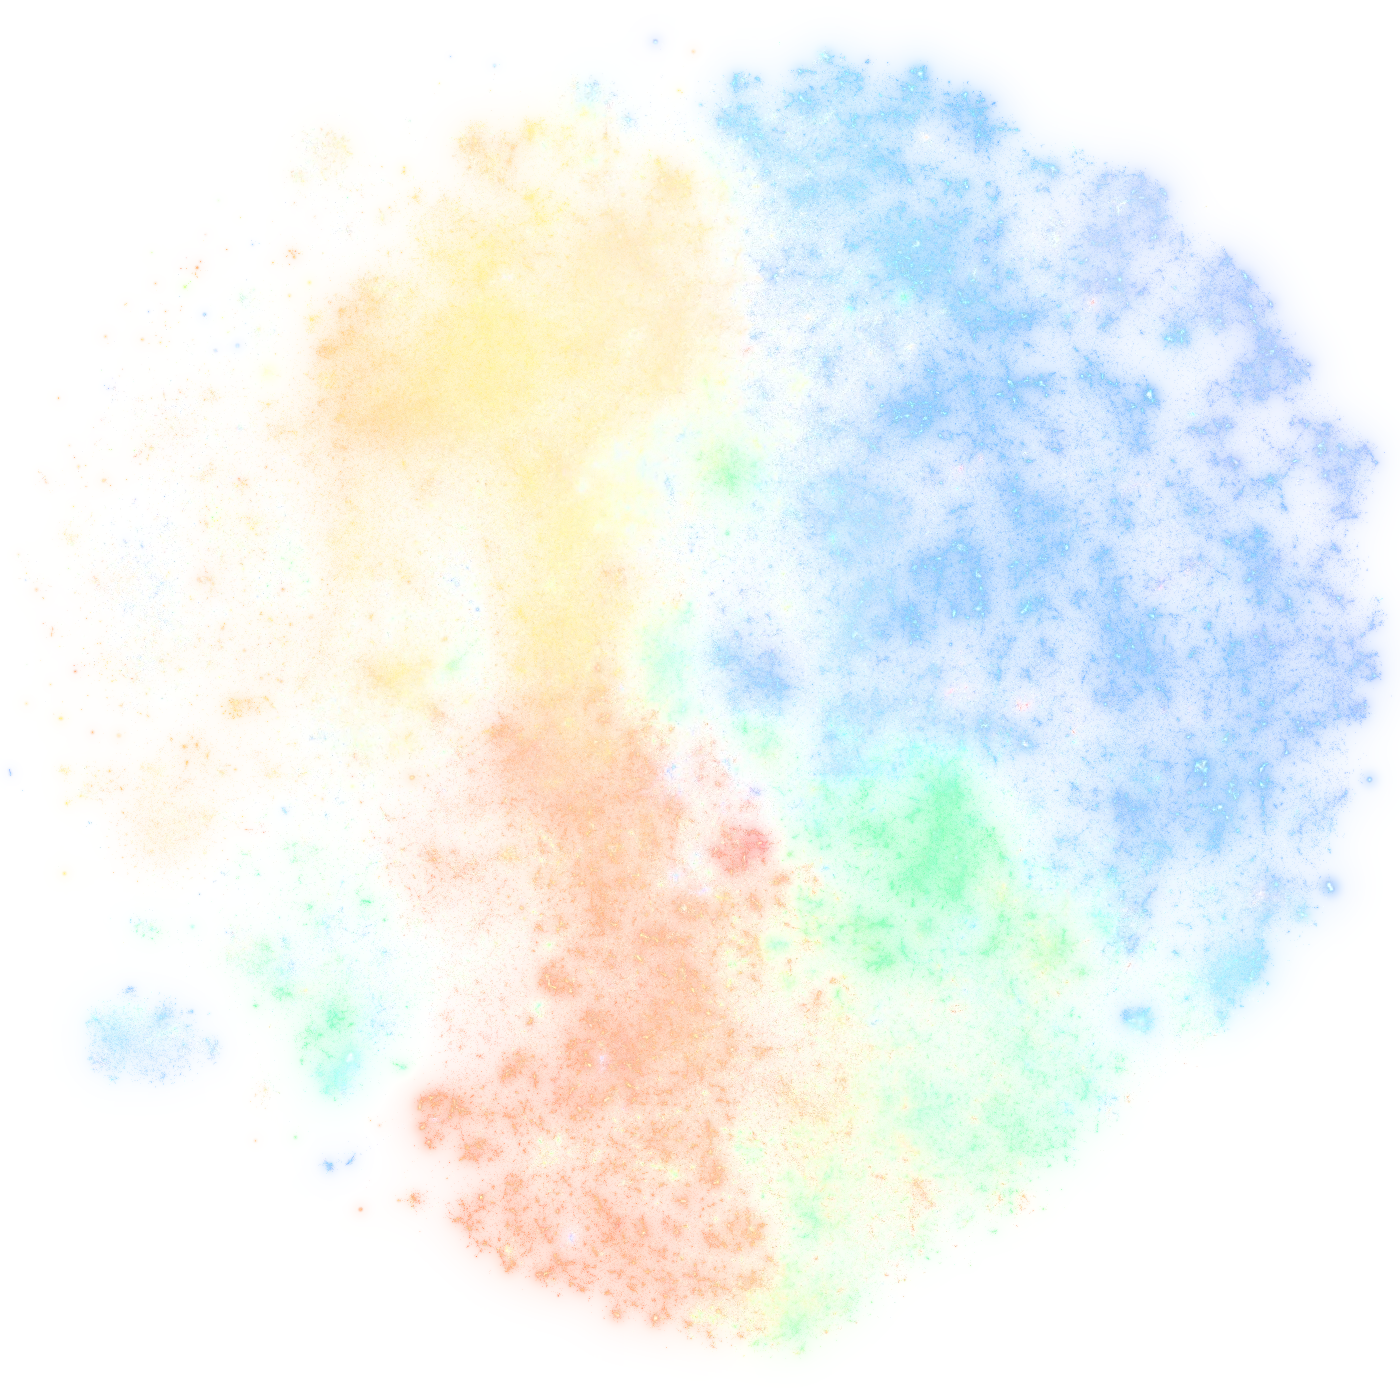
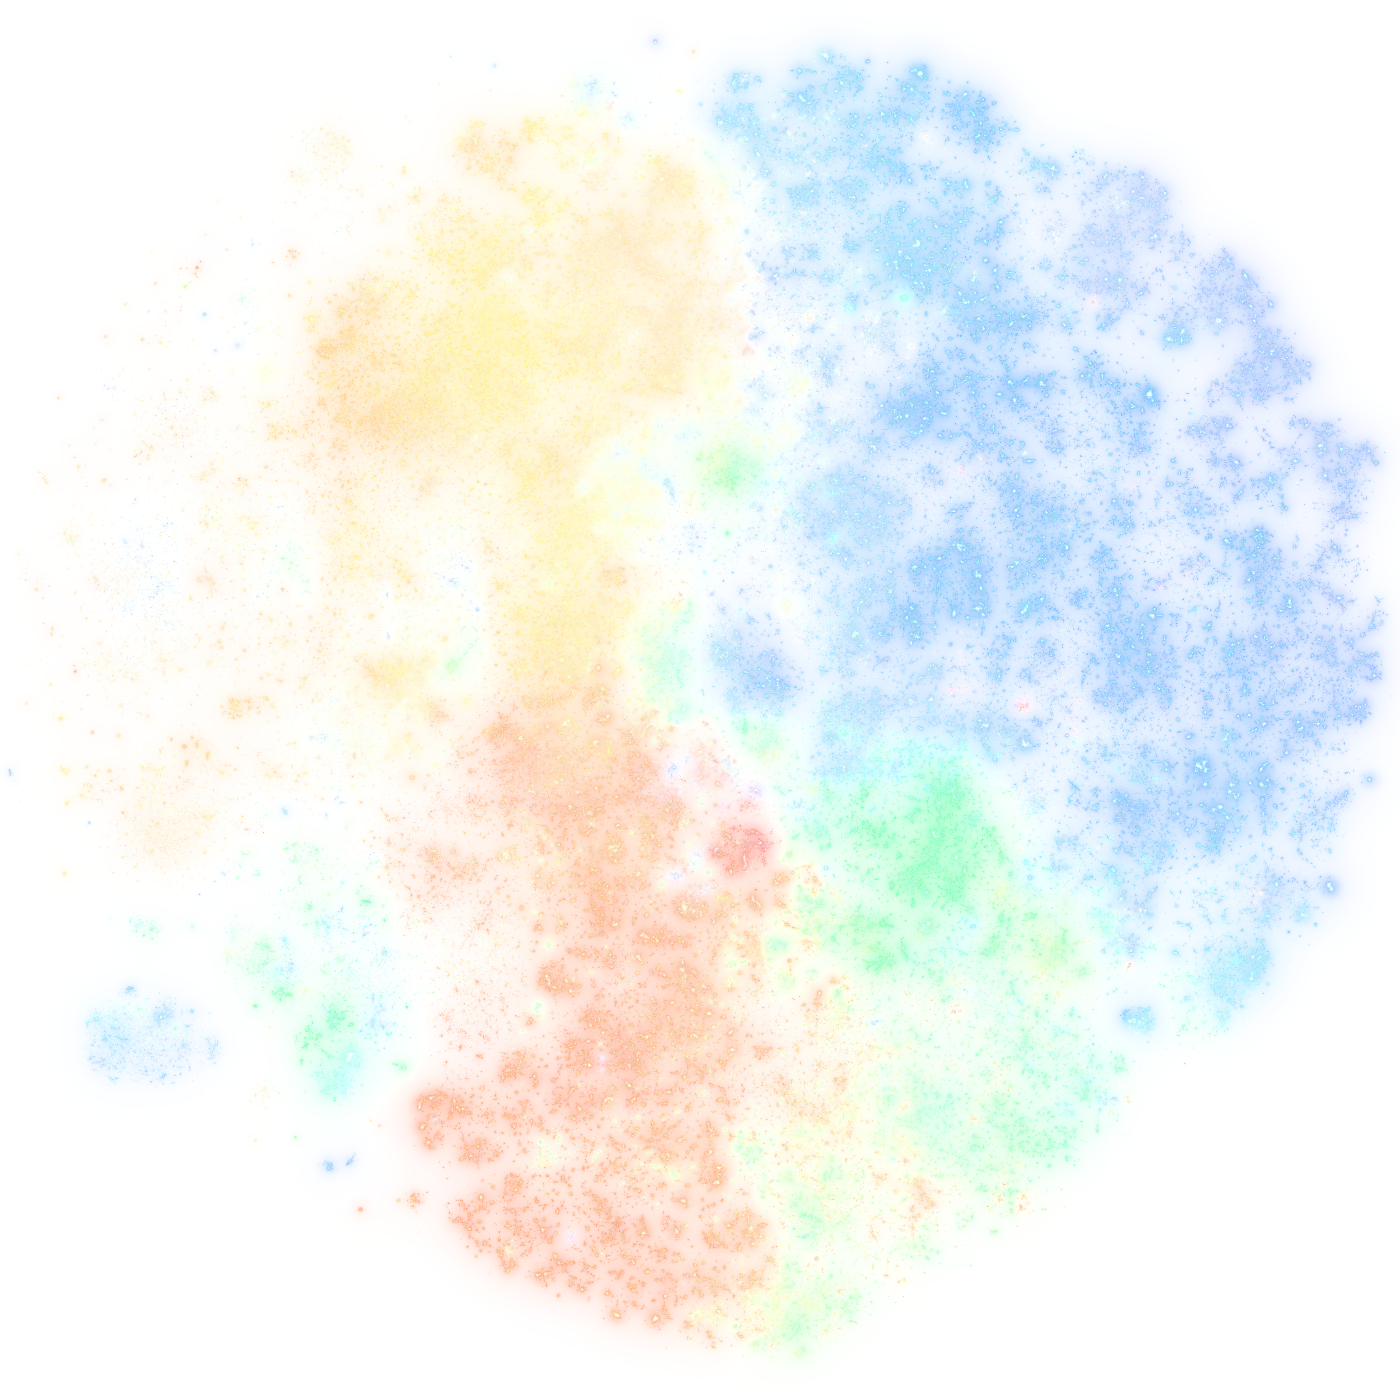
Map for the 'mode' positions (release 20261010T012946Z): homepage images redrawn (exposure percentile 96.5 keeps the brightness), density stored /64 in half floats (100,000+ studies per pixel overflowed to Inf: a black square), soft knee above the 99.7th percentile, stars blended by MAX (dense clust

diff --git a/app/web/src/mapgl.ts b/app/web/src/mapgl.ts
@@ -82,7 +82,9 @@ void main() {
   float pur = texelFetch(u_pur, p, 0).r;
   // as make_map.py: one colour per field, paler where fields mix; only-unclassified places muted (x 0.3)
   vec3 col = f.a > 0.5 ? mix(u_grey, f.rgb, 0.35 + 0.65 * pur) : u_grey * 0.3;
-  o = u_lin > 0.5 ? vec4(col * n, n)                       // float: light adds up under filtering
+  // float: light adds up under filtering; stored / 64 so the densest pixels (100,000+ studies with the "mode"
+  // placement) stay inside half-float range (65,504) instead of overflowing to Inf, which the blur turned into a black square
+  o = u_lin > 0.5 ? vec4(col * n, n) / 64.0
                   : vec4(col, log2(1.0 + n) / 16.0);       // 8-bit fallback: colour and log studies
 }`;
 
@@ -104,13 +106,19 @@ uniform float u_w;         // weight (cross-fade between a tile and its parent)
 uniform float u_cubic;     // 1 when a texel is several pixels wide
 uniform float u_scale;     // light buffer scale (8-bit fallback)
 uniform float u_lin;       // baked as linear light (float) or colour + log studies (8-bit)
+uniform float u_knee;      // exposure level of the 99.7th percentile: brighter than this is compressed
 out vec4 o;
 ${CUBIC}
 void main() {
   vec4 t = u_cubic > 0.5 ? cubic(u_t, v_uv, vec2(258.0)) : texture(u_t, v_uv);
-  vec3 light = u_lin > 0.5 ? t.rgb : t.rgb * (exp2(t.a * 16.0) - 1.0);
-  if (max(light.r, max(light.g, light.b)) <= 1e-6) discard;
-  o = vec4(light / u_area * u_k * u_w * u_scale, 1.0);
+  float n = u_lin > 0.5 ? t.a * 64.0 : exp2(t.a * 16.0) - 1.0;      // studies in the texel
+  if (n <= 1e-6) discard;
+  vec3 col = u_lin > 0.5 ? t.rgb / t.a : t.rgb;
+  // light: linear up to the 99.7th percentile of the screen (calibrated against the homepage image), square root
+  // beyond, so the densest clusters glow instead of burning a white halo through the blur
+  float x = n / u_area * u_k;
+  float y = x <= u_knee ? x : u_knee * sqrt(x / u_knee);
+  o = vec4(col * y * u_w * u_scale, 1.0);
 }`;
 
 // ------------------------------------------------------------------ 1. light: stars
@@ -632,6 +640,7 @@ export class MapGL {
     const hazeW = Math.max(0.5, Math.min(1, 1 - (Math.log2(c.z) - 5) / 3));
     gl.uniform1f(P.u.u_k, this.k * hazeW); gl.uniform1f(P.u.u_scale, sc);
     gl.uniform1i(P.u.u_t, 0); gl.uniform1f(P.u.u_lin, this.hdr ? 1 : 0);
+    gl.uniform1f(P.u.u_knee, this.kneeLevel());
     for (const d of draws) {
       if (d.w <= 0 || !this.dbg.haze) continue;
       const texelPx = spanDev / ((1 << d.t.z) * TILE);
@@ -651,6 +660,9 @@ export class MapGL {
     this.pLevel = Lp;
     this.wantP.clear();
     this.into(stars); if (!merged) gl.clear(gl.COLOR_BUFFER_BIT);
+    // overlapping stars keep the brightest instead of adding up: a cluster of thousands of studies is a bright
+    // patch, not a white-hot blob (and in the light theme, not a black stain of ink)
+    gl.blendEquation(gl.MAX);
     const S = this.progs.stars;
     gl.useProgram(S.p);
     gl.uniform2f(S.u.u_view, Wr, Hr);
@@ -698,6 +710,7 @@ export class MapGL {
 
     this.mark("stars");
     // ------------------------------------------------------------- 2. glow: down chain, blur at two sizes
+    gl.blendEquation(gl.FUNC_ADD);
     gl.disable(gl.BLEND);
     gl.bindVertexArray(this.quad);
     const D = this.progs.down;
@@ -777,15 +790,18 @@ export class MapGL {
     const ref = (Math.pow(2, ((i << 4) + 8) / this.meta.density.log_scale) - 1) / area;
     // EXPOSURE: matched to the homepage image at the whole-map view (measured on 1x and 2x screens), so the
     // swap from the image to the live map is not a jump; light needs more, low-density screens a little less
-    const e = this.EXPOSURE ?? (this.pal.dark ? 0.5 : 0.7) * Math.pow(dpr / 2, 0.45);
+    const e = this.kneeLevel();
     // capped: where studies are few, a lone study stays a faint glow (its star carries it), not a bright patch
     return Math.min(e / ref, 60);
   }
   EXPOSURE: number | null = null;
+  /** the light the 99.7th percentile gets (exposure() sets k so that ref x k = this); matched to the homepage images
+   *  (make_map.py) on 1x and 2x screens, 2026-10-10, with stars blended by MAX */
+  kneeLevel() { const hi = Math.min(devicePixelRatio || 1, 2) >= 1.5; return this.EXPOSURE ?? (this.pal.dark ? (hi ? 2 : 1) : (hi ? 3 : 2.2)); }
   /** Star light: faint far out (the density carries the picture, as on the homepage image), stronger closer in,
    *  where single studies are what there is to see. */
   STARS = 0.003;
-  GRAIN = 0.04;
+  GRAIN = 0.06;
   starGain(z: number) { return Math.min(0.2, this.STARS * Math.pow(Math.max(1, z), 0.95)); }
   /** light theme: ink per star; fine dust far out, real dots close in */
   grain(z: number) { return Math.min(0.28, this.GRAIN * Math.pow(Math.max(1, z), 0.6)); }

diff --git a/app/tools/check_site.py b/app/tools/check_site.py
@@ -90,13 +90,16 @@ def desktop(b, errs):
     pg.evaluate("window.__fly(0.62, 0.45, 150)"); pg.wait_for_timeout(3000)
     pg.evaluate('document.querySelector("#pick-close").click()')
     ring = None
-    for mx in range(400, 900, 17):          # find a study under the mouse (the hover ring shows on it)
-        pg.mouse.move(mx, 420); pg.wait_for_timeout(40)
-        ring = pg.evaluate('(() => { const r = document.querySelector("#hover-ring"); if (r.hidden) return null;'
-                           f' if (document.elementFromPoint({mx}, 420).closest(".dot")) return null;'
-                           ' const b = r.getBoundingClientRect(); return [b.x + b.width / 2, b.y + b.height / 2] })()')
+    for my in range(220, 640, 31):          # find a study under the mouse (the hover ring shows on it); at this
+        for mx in range(300, 1000, 17):     # zoom studies sit in clusters with empty space between them
+            pg.mouse.move(mx, my); pg.wait_for_timeout(25)
+            ring = pg.evaluate('(() => { const r = document.querySelector("#hover-ring"); if (r.hidden) return null;'
+                               f' if (document.elementFromPoint({mx}, {my}).closest(".dot")) return null;'
+                               ' const b = r.getBoundingClientRect(); return [b.x + b.width / 2, b.y + b.height / 2] })()')
+            if ring:
+                pg.mouse.click(mx, my)
+                break
         if ring:
-            pg.mouse.click(mx, 420)
             break
     until(pg, '!!document.querySelector(".picked")', 10)
     c = pg.evaluate('(() => { const b = document.querySelector(".picked")?.getBoundingClientRect(); return b ? [b.x + b.width / 2, b.y + b.height / 2] : null })()')

diff --git a/design/home-mock/make_map.py b/design/home-mock/make_map.py
@@ -18,7 +18,7 @@ from pathlib import Path
 import numpy as np
 from PIL import Image, ImageFilter
 
-BUILD = Path("/mnt/fast/science-atlas/build/20261008T131030-tsne")
+BUILD = Path("/mnt/fast/science-atlas/build/20261009T190750-tsne-mode")   # same geography, placement "mode"
 OUT = Path(__file__).resolve().parent
 SIZE = 1400
 
@@ -68,7 +68,11 @@ def saturate(rgb: np.ndarray, k: float) -> np.ndarray:
     return np.clip(grey + (rgb - grey) * k, 0, None)
 
 
-ref = np.percentile(count[count > 0], 99.7)   # exposure: the densest 0.3 % of places saturate
+import os
+# exposure: the densest places saturate. 99.7 for the first atlas; the "mode" placement packs papers into their
+# clusters (higher peaks), so the same brightness overall needs a lower percentile (EXPOSURE_PCT, matched by eye
+# and by mean brightness against the first images)
+ref = np.percentile(count[count > 0], float(os.environ.get("EXPOSURE_PCT", 96.5 if "mode" in BUILD.name else 99.7)))
 for theme in ("light", "dark"):
     pal = palette(theme)
     # summed colour per place (not averaged): dense places collect more light / more ink
